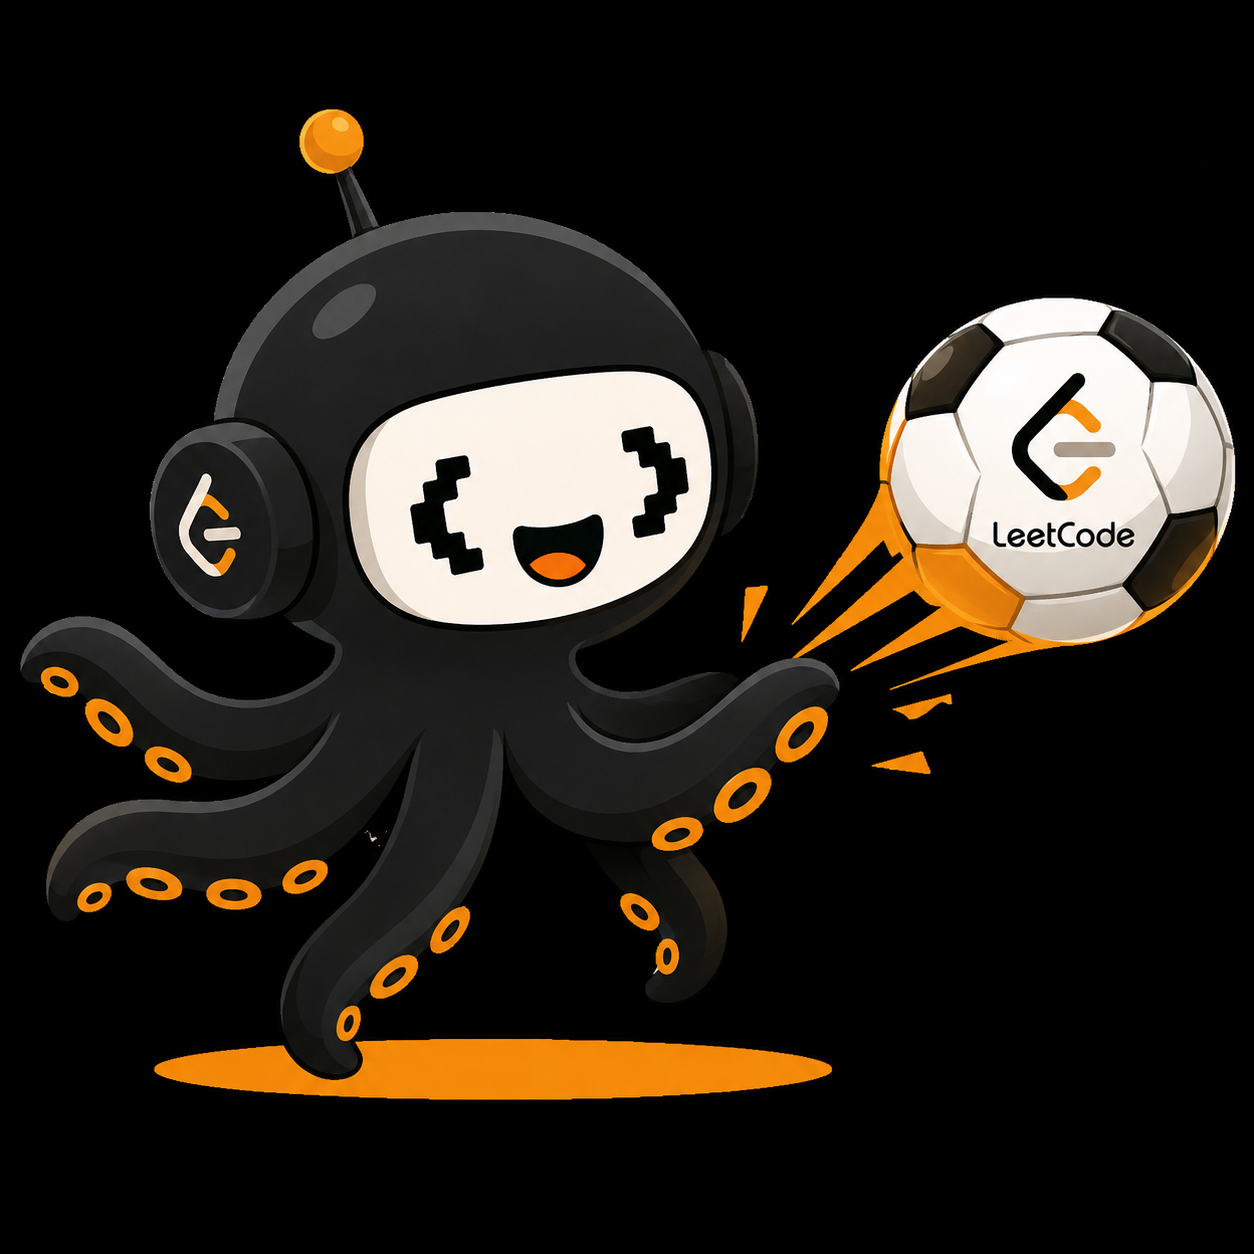
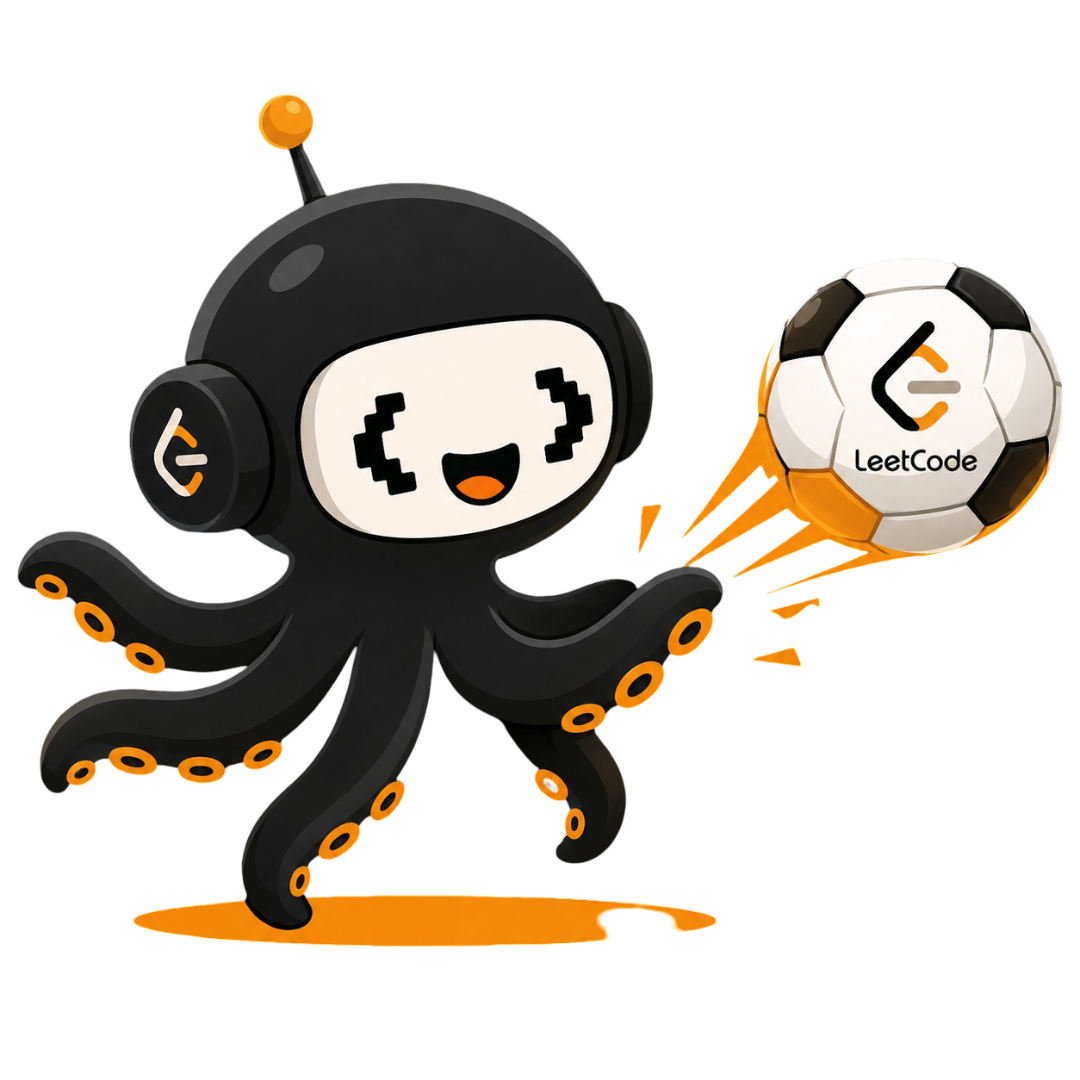
fixing the player role attribute assignment

diff --git a/web/lib/samples.ts b/web/lib/samples.ts
@@ -12,17 +12,17 @@ export const SAMPLE_CARDS: Card[] = [
     name: "Jingzhe Tang",
     avatarUrl: "https://assets.leetcode.com/users/t251346744/avatar_1587471563.png",
     country: "cn",
-    stats: { pac: 67, sho: 84, pas: 90, dri: 90, def: 72, phy: 75 },
-    position: "CAM",
+    stats: { pac: 65, sho: 86, pas: 94, dri: 80, def: 74, phy: 78 },
+    position: "CM",
     family: "Playmaker",
-    baseOvr: 84,
-    overall: 92,
+    baseOvr: 83,
+    overall: 91,
     finish: "icon",
     archetype: "Grandmaster",
     archetypeBlurb: "hall-of-fame solver — high and balanced, earned over years",
     legacy: 0.7130167562144185,
     skillMoves: 5,
-    weakFoot: 4,
+    weakFoot: 5,
     workRateAttack: "High",
     workRateDefense: "High",
     style: "Industrious",
@@ -55,11 +55,11 @@ export const SAMPLE_CARDS: Card[] = [
     name: "Peng Cao",
     avatarUrl: "https://assets.leetcode.com/users/avatars/avatar_1673539266.png",
     country: "us",
-    stats: { pac: 68, sho: 82, pas: 89, dri: 90, def: 67, phy: 75 },
-    position: "CAM",
+    stats: { pac: 67, sho: 85, pas: 94, dri: 81, def: 67, phy: 78 },
+    position: "CM",
     family: "Playmaker",
-    baseOvr: 83,
-    overall: 91,
+    baseOvr: 82,
+    overall: 90,
     finish: "icon",
     archetype: "Grandmaster",
     archetypeBlurb: "hall-of-fame solver — high and balanced, earned over years",
@@ -98,14 +98,14 @@ export const SAMPLE_CARDS: Card[] = [
     name: "SupremeChicken",
     avatarUrl: "https://assets.leetcode.com/users/SupremeChicken/avatar_1757950913.png",
     country: "us",
-    stats: { pac: 79, sho: 82, pas: 89, dri: 95, def: 56, phy: 69 },
-    position: "CAM",
-    family: "Playmaker",
-    baseOvr: 83,
-    overall: 91,
-    finish: "icon",
-    archetype: "Grandmaster",
-    archetypeBlurb: "hall-of-fame solver — high and balanced, earned over years",
+    stats: { pac: 83, sho: 87, pas: 95, dri: 75, def: 58, phy: 75 },
+    position: "ST",
+    family: "Forward",
+    baseOvr: 81,
+    overall: 89,
+    finish: "chrome",
+    archetype: "Sprinter",
+    archetypeBlurb: "the engine — a daily-driver who never slows down",
     legacy: 0.6949794135857856,
     skillMoves: 5,
     weakFoot: 4,
@@ -141,15 +141,15 @@ export const SAMPLE_CARDS: Card[] = [
     name: "lee",
     avatarUrl: "https://assets.leetcode.com/users/lee215/avatar_1551541889.png",
     country: "cn",
-    stats: { pac: 67, sho: 76, pas: 89, dri: 89, def: 74, phy: 68 },
-    position: "CAM",
+    stats: { pac: 65, sho: 77, pas: 93, dri: 83, def: 76, phy: 68 },
+    position: "CM",
     family: "Playmaker",
     baseOvr: 81,
     overall: 82,
     finish: "red",
     archetype: "Sprinter",
     archetypeBlurb: "the engine — a daily-driver who never slows down",
-    legacy: 0.09152744526647494,
+    legacy: 0.09178774970897462,
     skillMoves: 5,
     weakFoot: 4,
     workRateAttack: "High",

diff --git a/web/components/PlayerCard.tsx b/web/components/PlayerCard.tsx
@@ -61,9 +61,13 @@ function PlayerCard({ card }: { card: Card }) {
   const t = resolveCardTheme(card);
   const ink = t.ink;
   const full = card.name.trim();
-  const displayName = (
-    full.length <= 9 ? full : full.split(" ").slice(-1)[0]
-  ).toUpperCase();
+  // "First Last" names shorten to the surname; but a single-word name (common
+  // for LeetCode usernames, e.g. "SupremeChicken") has no surname to fall back
+  // to — split(" ") is a no-op on it — so it must still be hard-capped, or it
+  // overflows the fixed-width card face uncorrected (whiteSpace: nowrap below).
+  const surnameOrFull = full.length <= 9 ? full : full.split(" ").slice(-1)[0];
+  const MAX_NAME_CHARS = 12;
+  const displayName = surnameOrFull.slice(0, MAX_NAME_CHARS).toUpperCase();
 
   const onAvatarError: React.ReactEventHandler<HTMLImageElement> = (e) => {
     e.currentTarget.onerror = null;

diff --git a/web/components/ScoutForm.tsx b/web/components/ScoutForm.tsx
@@ -102,18 +102,18 @@ export default function ScoutForm({
         try{" "}
         <button
           type="button"
-          onClick={() => onScout("neetcode")}
+          onClick={() => onScout("skywalkert")}
           className={exampleClass}
         >
-          neetcode
+          skywalkert
         </button>{" "}
         ·{" "}
         <button
           type="button"
-          onClick={() => onScout("errichto")}
+          onClick={() => onScout("cpcs")}
           className={exampleClass}
         >
-          errichto
+          cpcs
         </button>{" "}
         · or your own
       </div>

diff --git a/web/components/Mascot.tsx b/web/components/Mascot.tsx
@@ -2,7 +2,7 @@
 
 import { memo } from "react";
 
-// LeetFut mascot — the shared logo asset (public/mascot.webp): the octopus-as-
+// LeetFut mascot — the shared logo asset (public/mascot.png): the octopus-as-
 // footballer kicking the WC26 ball. Rendered as-is; `animate` adds a gentle
 // float (used on the hero/loading screen). The ball is part of the artwork, so
 // the legacy `kick`/`ball` props are accepted but no longer composite anything.
@@ -19,7 +19,7 @@ interface MascotProps {
 function Mascot({ size = 220, className, animate = true }: MascotProps) {
   return (
     <img
-      src="/mascot.webp"
+      src="/mascot.png"
       alt="LeetFut mascot — an octopus footballer kicking the World Cup 26 ball"
       width={size}
       height={size}

diff --git a/backend/src/scoring/engine.rs b/backend/src/scoring/engine.rs
@@ -51,12 +51,19 @@ pub fn raw_stats(s: &Signals) -> Stats {
             + 12.0 * lg(s.contest_rating)
             + 9.0 * lg(s.contests_attended as f64)
             + 1.5 * lg(s.reputation.max(0) as f64),
-        // Topic breadth leads DRI (as before), with a bonus for hard-tier topic
-        // coverage (mirrors SHO's hard/medium split — advanced topics are worth
-        // more than raw topic count alone) and a smaller nod to language spread.
-        dri: 58.0
-            + 5.0 * (s.topics_solved as f64).sqrt()
-            + 6.0 * (s.hard_topics_solved as f64).sqrt()
+        // Topic breadth leads DRI, with a bonus for hard-tier topic coverage
+        // (mirrors SHO's hard/medium split) and a smaller nod to language
+        // spread. Base + weights kept modest deliberately: LeetCode's Skills
+        // page groups tags into a SMALL FIXED catalog (observed ceiling:
+        // topics_solved maxes ~46, hard_topics_solved maxes ~18 — there's no
+        // larger catalog to keep growing into). The original 58-base/5-6
+        // weight version saturated DRI near 99 for almost anyone with decent
+        // (not even complete) topic coverage — including modest profiles with
+        // otherwise unremarkable stats — which was silently forcing nearly
+        // every card into Playmaker/CAM regardless of their actual shape.
+        dri: 40.0
+            + 4.0 * (s.topics_solved as f64).sqrt()
+            + 3.0 * (s.hard_topics_solved as f64).sqrt()
             + 2.0 * (s.languages_used as f64).sqrt(),
         // Contest rating gets a small direct pull here too, on top of PAS: it's
         // opponent-adjusted and timed, so it's evidence of solving accurately